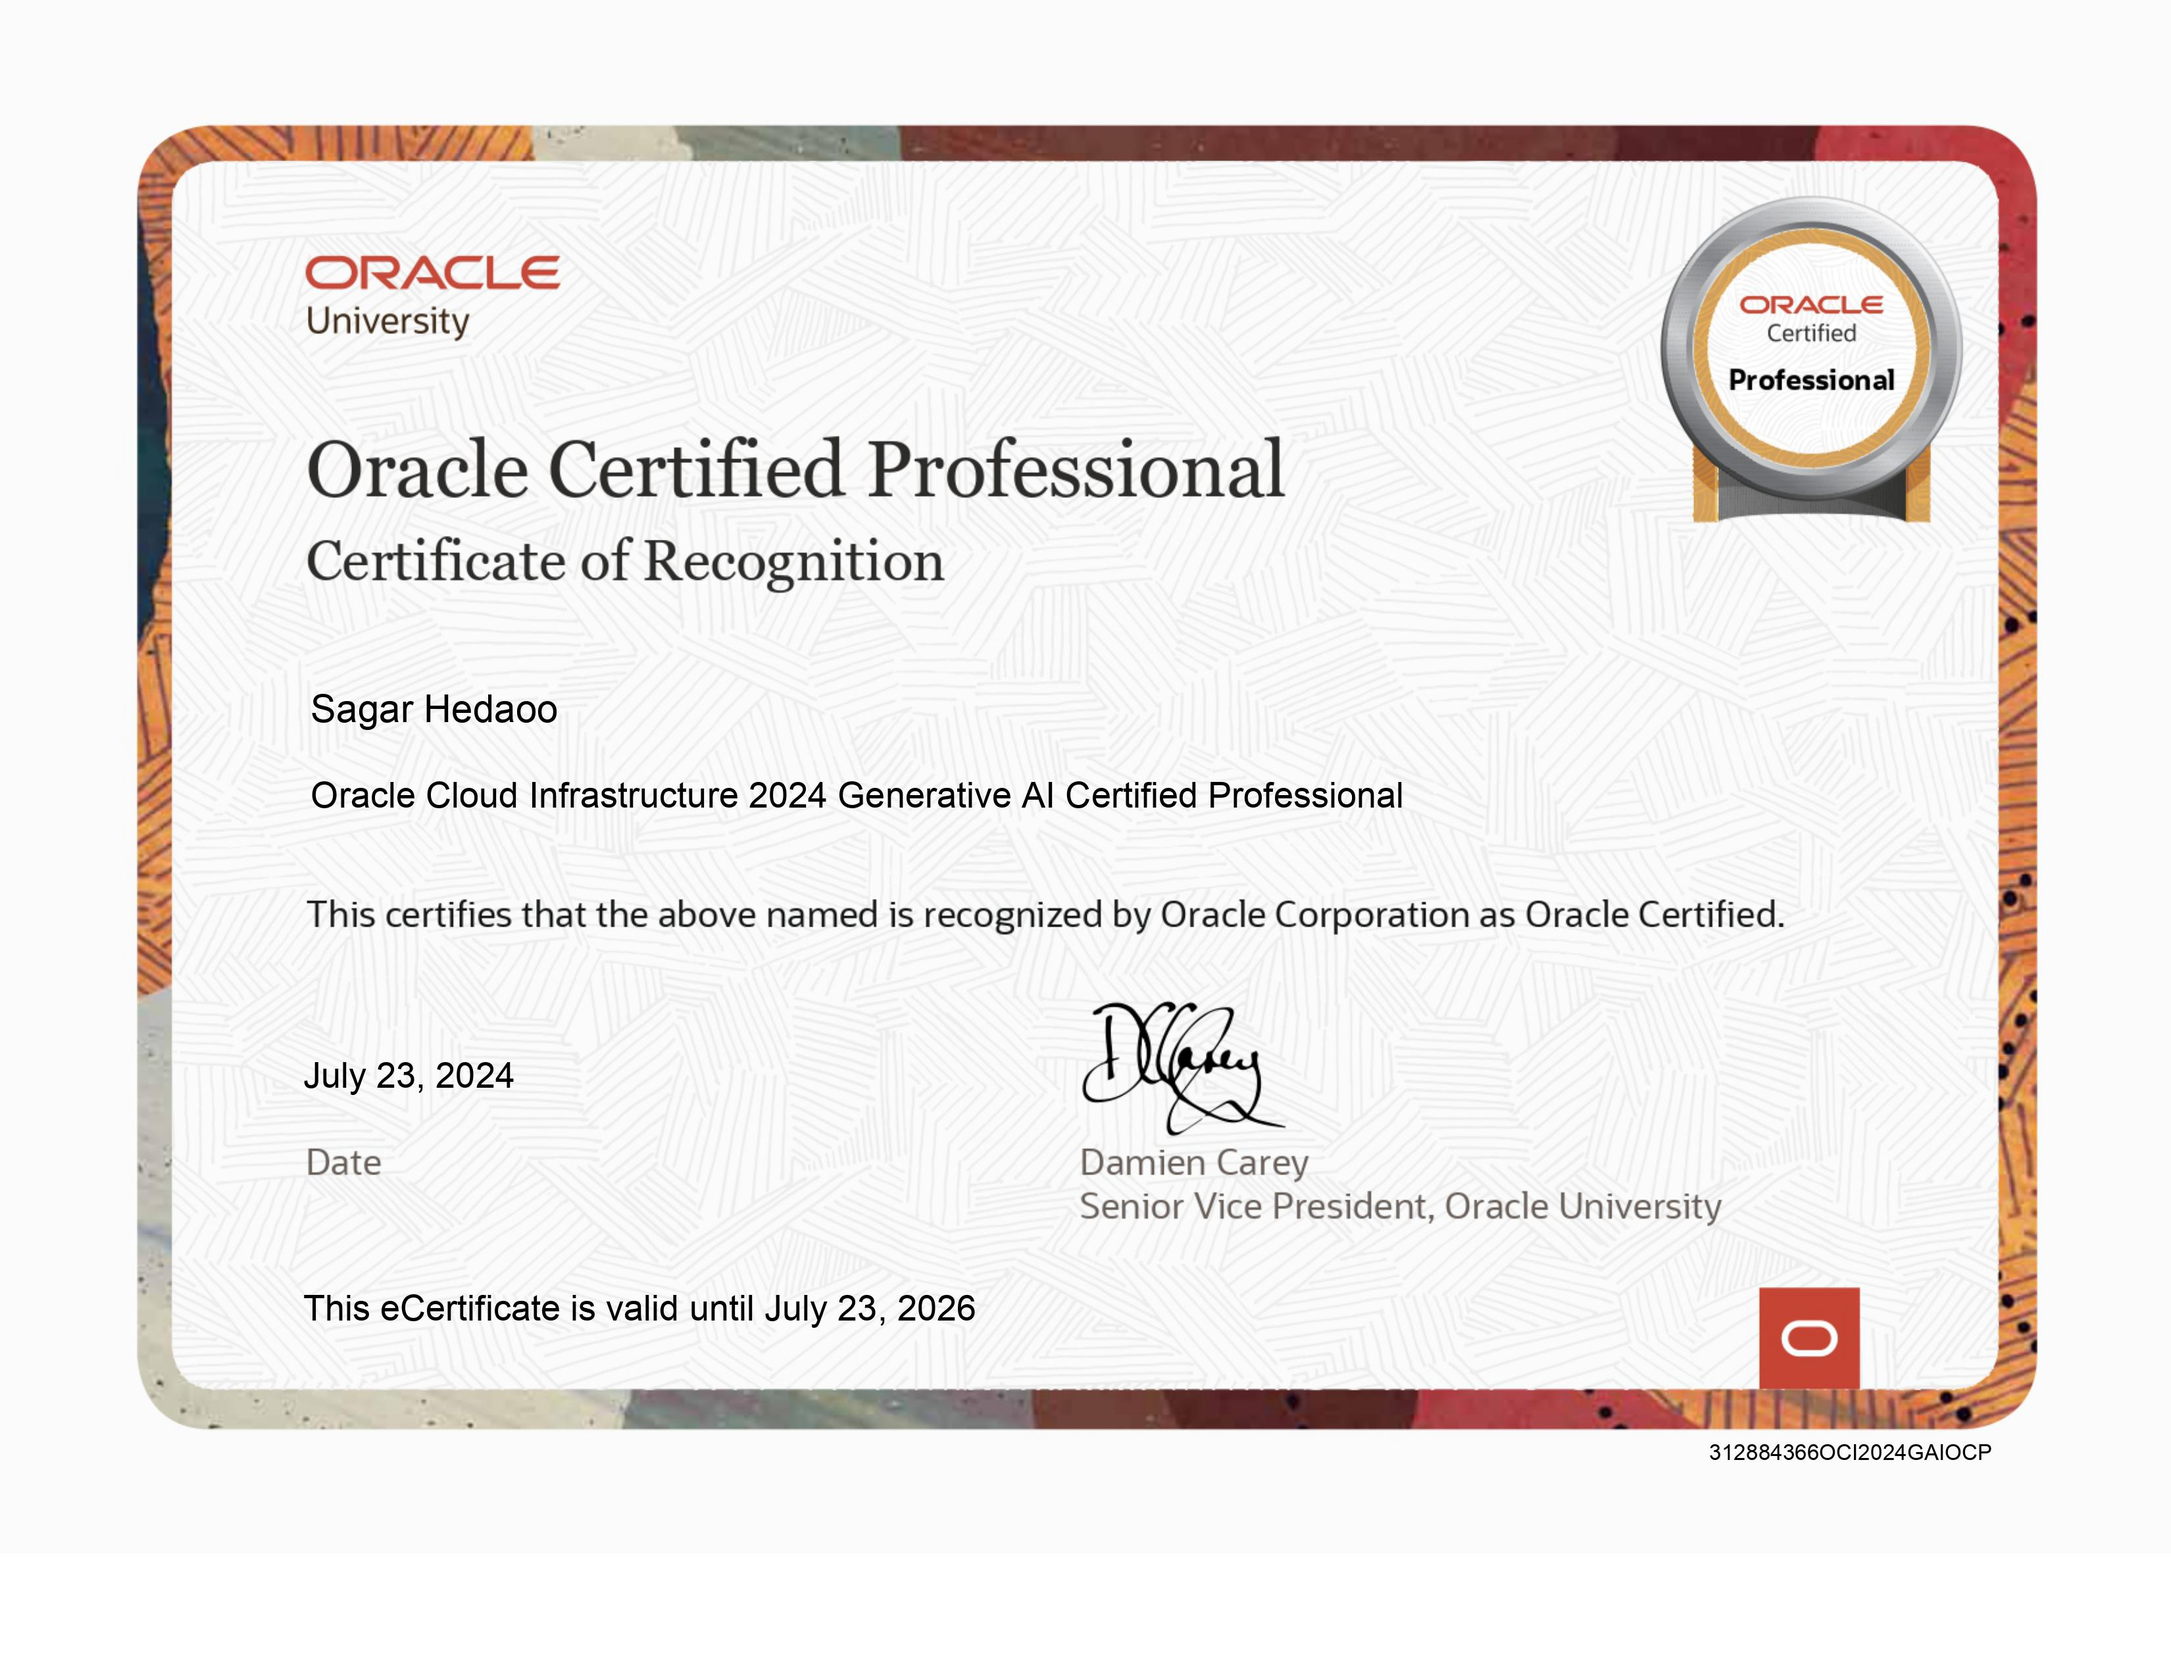
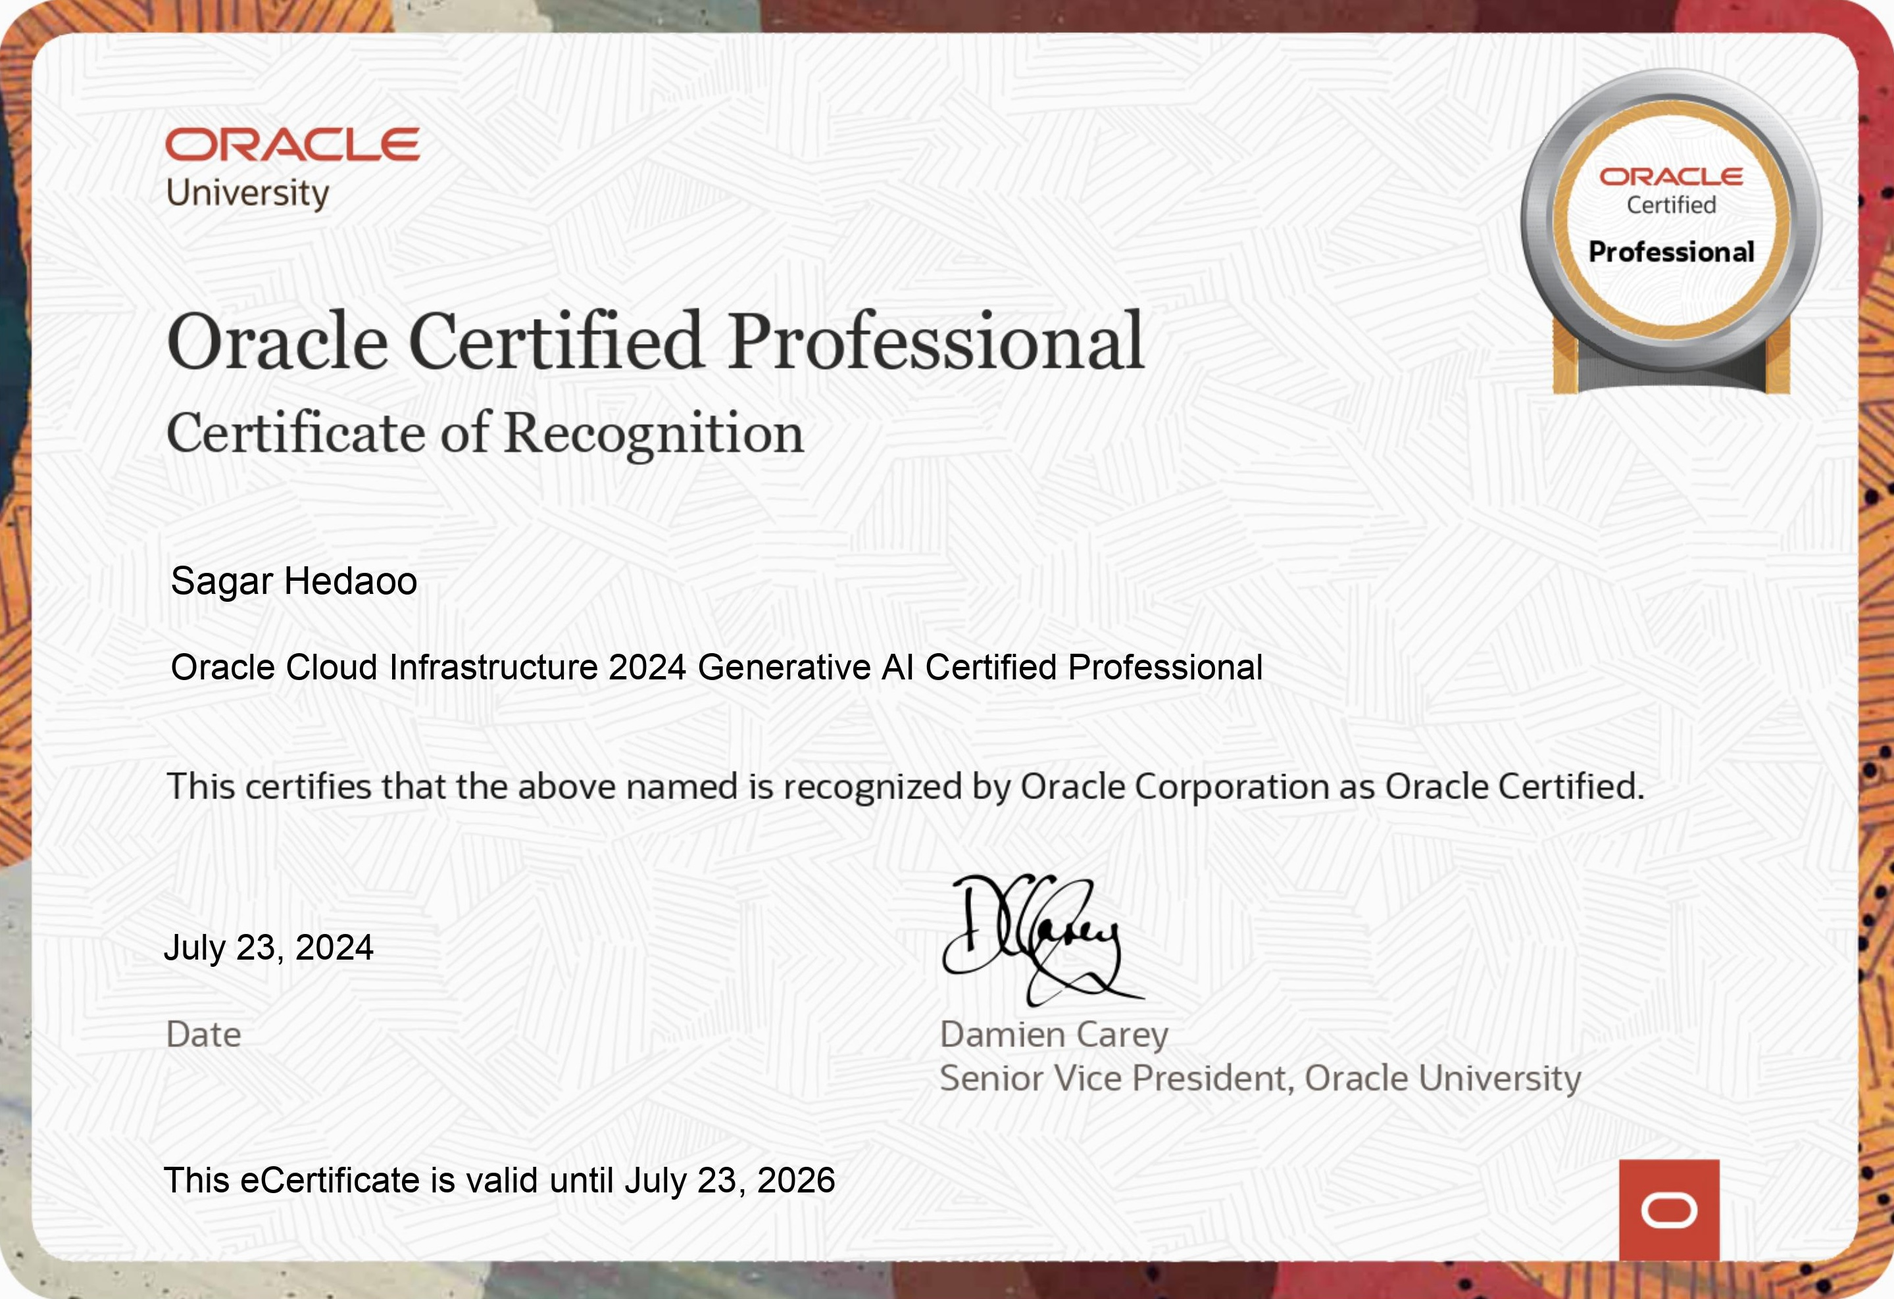
ui fix

Changed region(s): [[0.0, 0.0, 1.0, 1.0], [0.0927, 0.8957, 0.4328, 0.9266]]

diff --git a/components/Certifications.tsx b/components/Certifications.tsx
@@ -56,7 +56,7 @@ const Certifications: React.FC = () => {
   };
 
   return (
-    <main className="pt-10" id="certificates">
+    <main className="pt-20" id="certificates">
       <div className="items-center relative justify-center flex">
         <div className="text-4xl lg:text-4xl md:text-4xl  text-black-100 dark:text-white">
           Some <span className="text-orange-400">Certificates</span>
@@ -69,7 +69,7 @@ const Certifications: React.FC = () => {
         >
           <ChevronLeft />
         </button>
-        <div className="slider relative h-[300px] w-[400px] overflow-hidden md:h-[500px] md:w-[700px] ">
+        <div className="slider relative h-[300px] w-[400px] overflow-hidden md:h-[500px] md:w-[700px] md:rounded-3xl rounded-xl">
           <AnimatePresence initial={false} custom={direction}>
             <motion.div
               key={imageCount}
@@ -83,13 +83,13 @@ const Certifications: React.FC = () => {
               dragConstraints={{ left: 0, right: 0 }}
               dragElastic={1}
               onDragEnd={(_, dragInfo) => dragEndHandler(dragInfo)}
-              className="image absolute h-full w-full bg-cover bg-center will-change-transform opacity-0 "
+              className="image absolute h-full w-full bg-cover bg-center will-change-transform opacity-0"
             >
               <Image
                 src={IMAGES[activeImageIndex].src}
                 alt="Certificate"
                 layout="fill"
-                objectFit="cover"
+                objectFit="fill"
               />
             </motion.div>
           </AnimatePresence>
@@ -101,28 +101,32 @@ const Certifications: React.FC = () => {
         >
           <ChevronRight />
         </button>
-        <span className="md:hidden block mt-2">
-          {"<-"} Swipe {"->"}
+
+        <span className="md:hidden mt-3 flex">
+          <ChevronLeft onClick={() => swipeToImage(-1)} /> Swipe{" "}
+          <ChevronRight onClick={() => swipeToImage(1)} />
         </span>
       </div>
 
-      <div className="thumbnails flex justify-center">
+      <div className="thumbnails flex justify-center rounded-lg">
         {IMAGES.map((image) => (
           <div
             key={image.id}
             onClick={() => skipToImage(image.id)}
-            className="thumbnail-container relative h-[60px] w-[90px] md:h-[70px] md:w-[100px] hover:cursor-pointer not:last-of-type:mr-1"
+            className="thumbnail-container relative h-[60px] w-[90px] md:h-[70px] md:w-[100px] md:mr-1 mr-2 hover:cursor-pointer not:last-of-type:mr-1"
           >
             <Image
               src={image.src}
               alt="Thumbnail"
-              className="h-full w-full object-cover object-center"
+              className="h-full w-full object-cover object-center rounded-lg"
               width={90}
               height={120}
             />
             <div
-              className={`active-indicator absolute top-0 left-0 h-full w-full pointer-events-none transform scale-x-0 origin-left bg-opacity-75 bg-white-500 transition-transform duration-[1s] ${
-                image.id === activeImageIndex ? "scale-x-100" : ""
+              className={`active-indicator absolute top-0 left-0 h-full  w-full pointer-events-none transform scale-x-0 origin-left bg-opacity-75 bg-white-500 transition-transform duration-[1s] ${
+                image.id === activeImageIndex
+                  ? "scale-x-100 rounded-lg border-orange-400 border-4 md:border-2 "
+                  : ""
               }`}
             />
           </div>

diff --git a/components/ui/Navbar.tsx b/components/ui/Navbar.tsx
@@ -7,7 +7,7 @@ import { ModeToggle } from "../ThemeToggleButton";
 import { FaLinkedin } from "react-icons/fa6";
 import { GitHubLogoIcon } from "@radix-ui/react-icons";
 import { useMediaQuery } from "react-responsive";
-import { Briefcase, FolderGit2, User } from "lucide-react";
+import { Briefcase, FolderGit2, NotebookText, User } from "lucide-react";
 import { LinkPreview } from "./link-preview";
 import TransitionLink from "@/utils/TransitionLink";
 import { motion, useScroll, useMotionValueEvent } from "framer-motion";
@@ -77,6 +77,11 @@ function Navbar({ className }: { className?: string }) {
               <TransitionLink href="#about">
                 <div className=" hover:bg-black hover:text-white rounded-lg dark:hover:bg-white dark:hover:text-black">
                   <User className="h-8 w-8" />
+                </div>
+              </TransitionLink>
+              <TransitionLink href="#certificates">
+                <div className=" hover:bg-black hover:text-white rounded-lg dark:hover:bg-white dark:hover:text-black">
+                  <NotebookText className="h-8 w-8" />
                 </div>
               </TransitionLink>
               <TransitionLink href="#projects">

diff --git a/components/Certificates.ts b/components/Certificates.ts
@@ -1,4 +1,4 @@
-import OCI_Cert from "../public/OCI_Certificate.webp";
+import OCI_Cert from "../public/OCI_Cert.webp";
 import JP_Cert from "../public/JPMorgan_Cert.webp";
 import Walmart_Cert from "../public/Walmart_Cert.webp";
 import MTA_Cert from "../public/MTA_Cert.webp";
